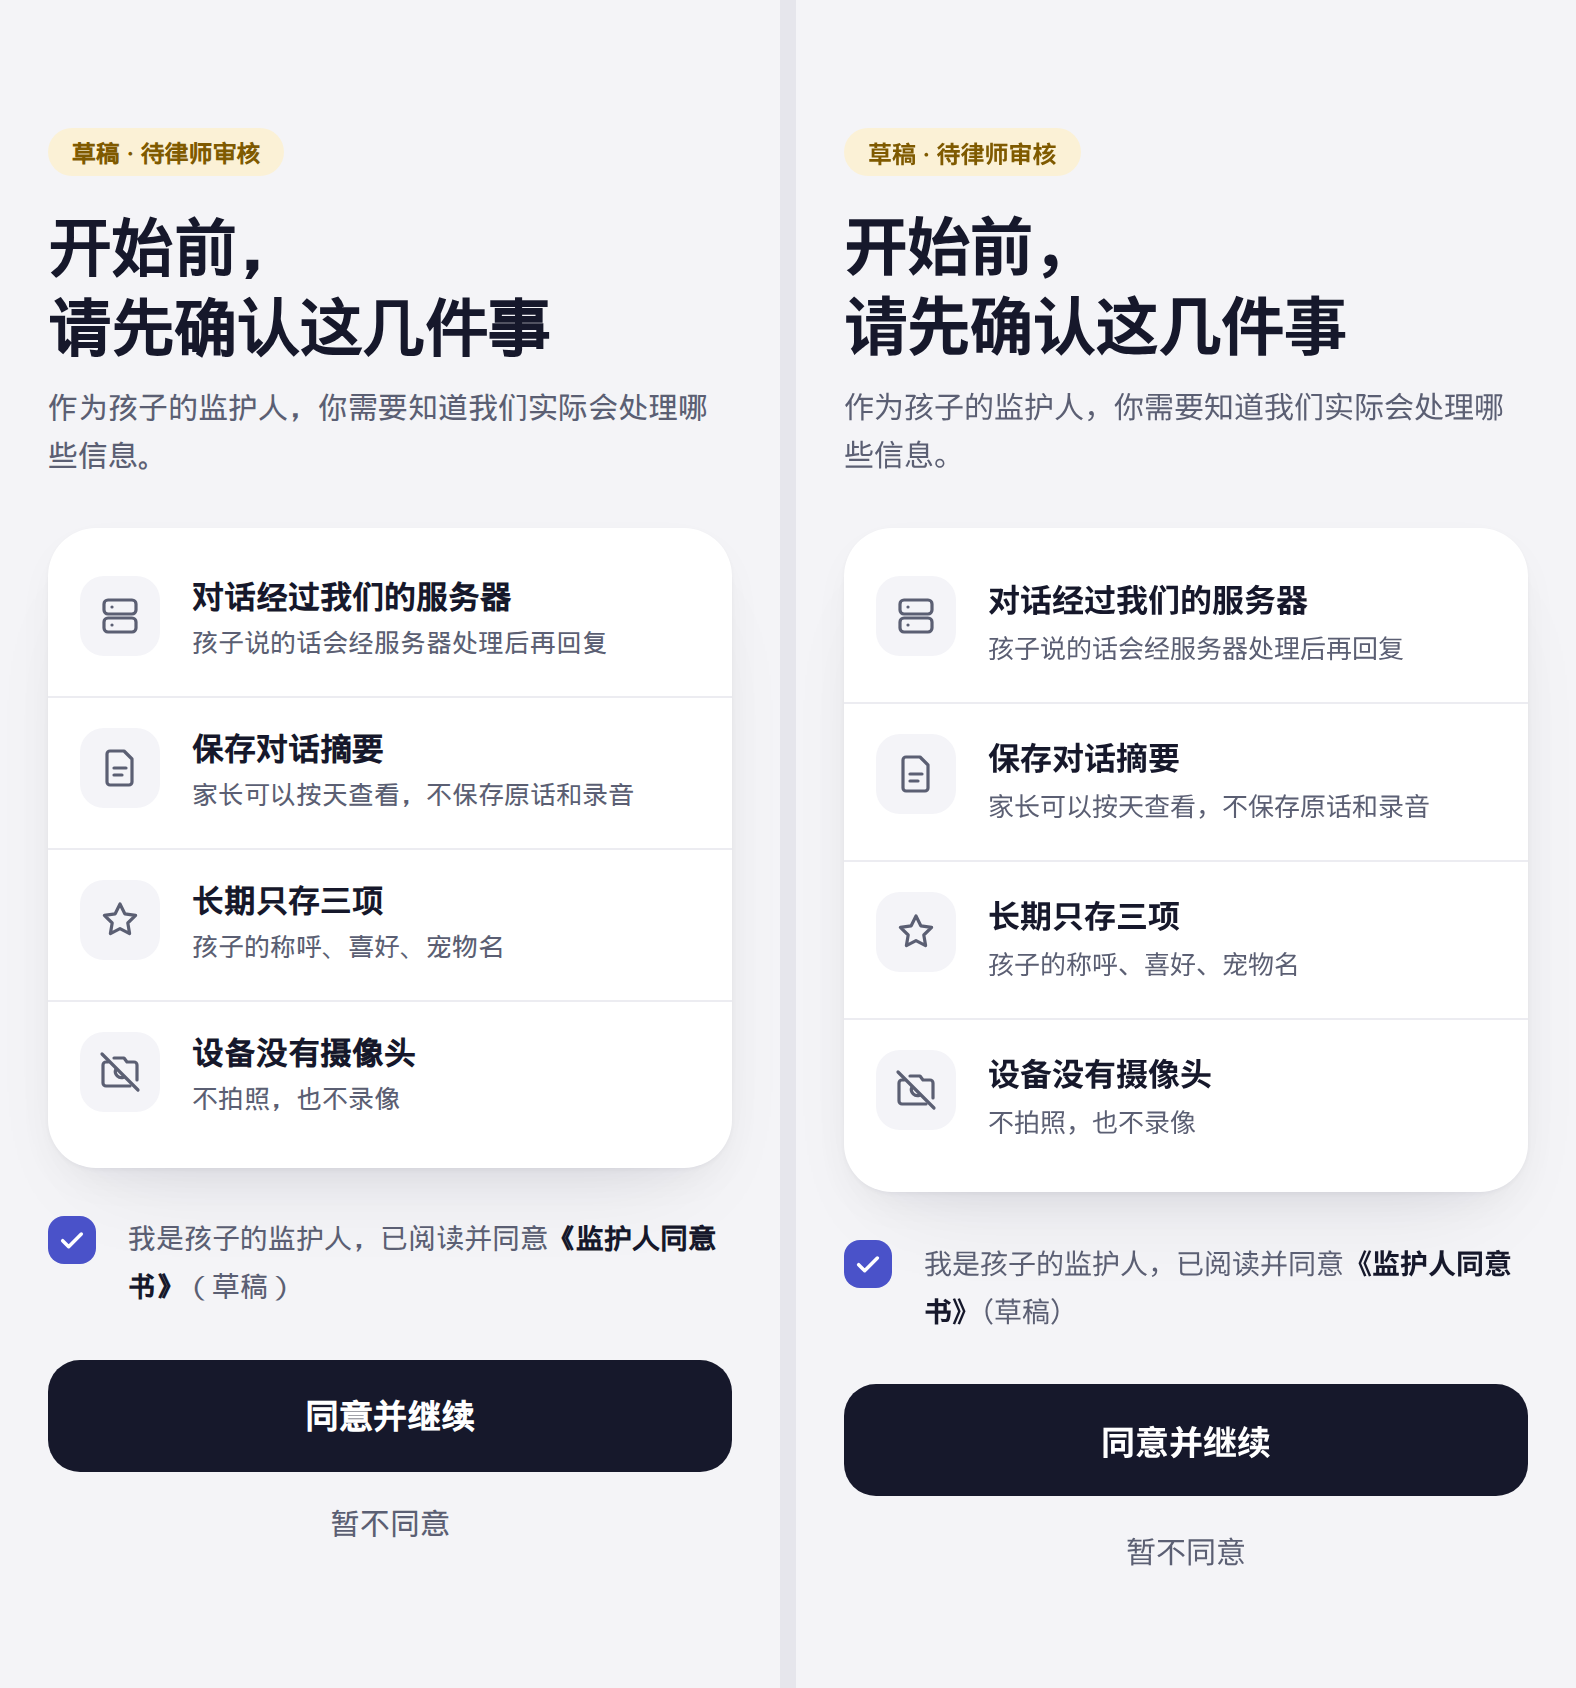
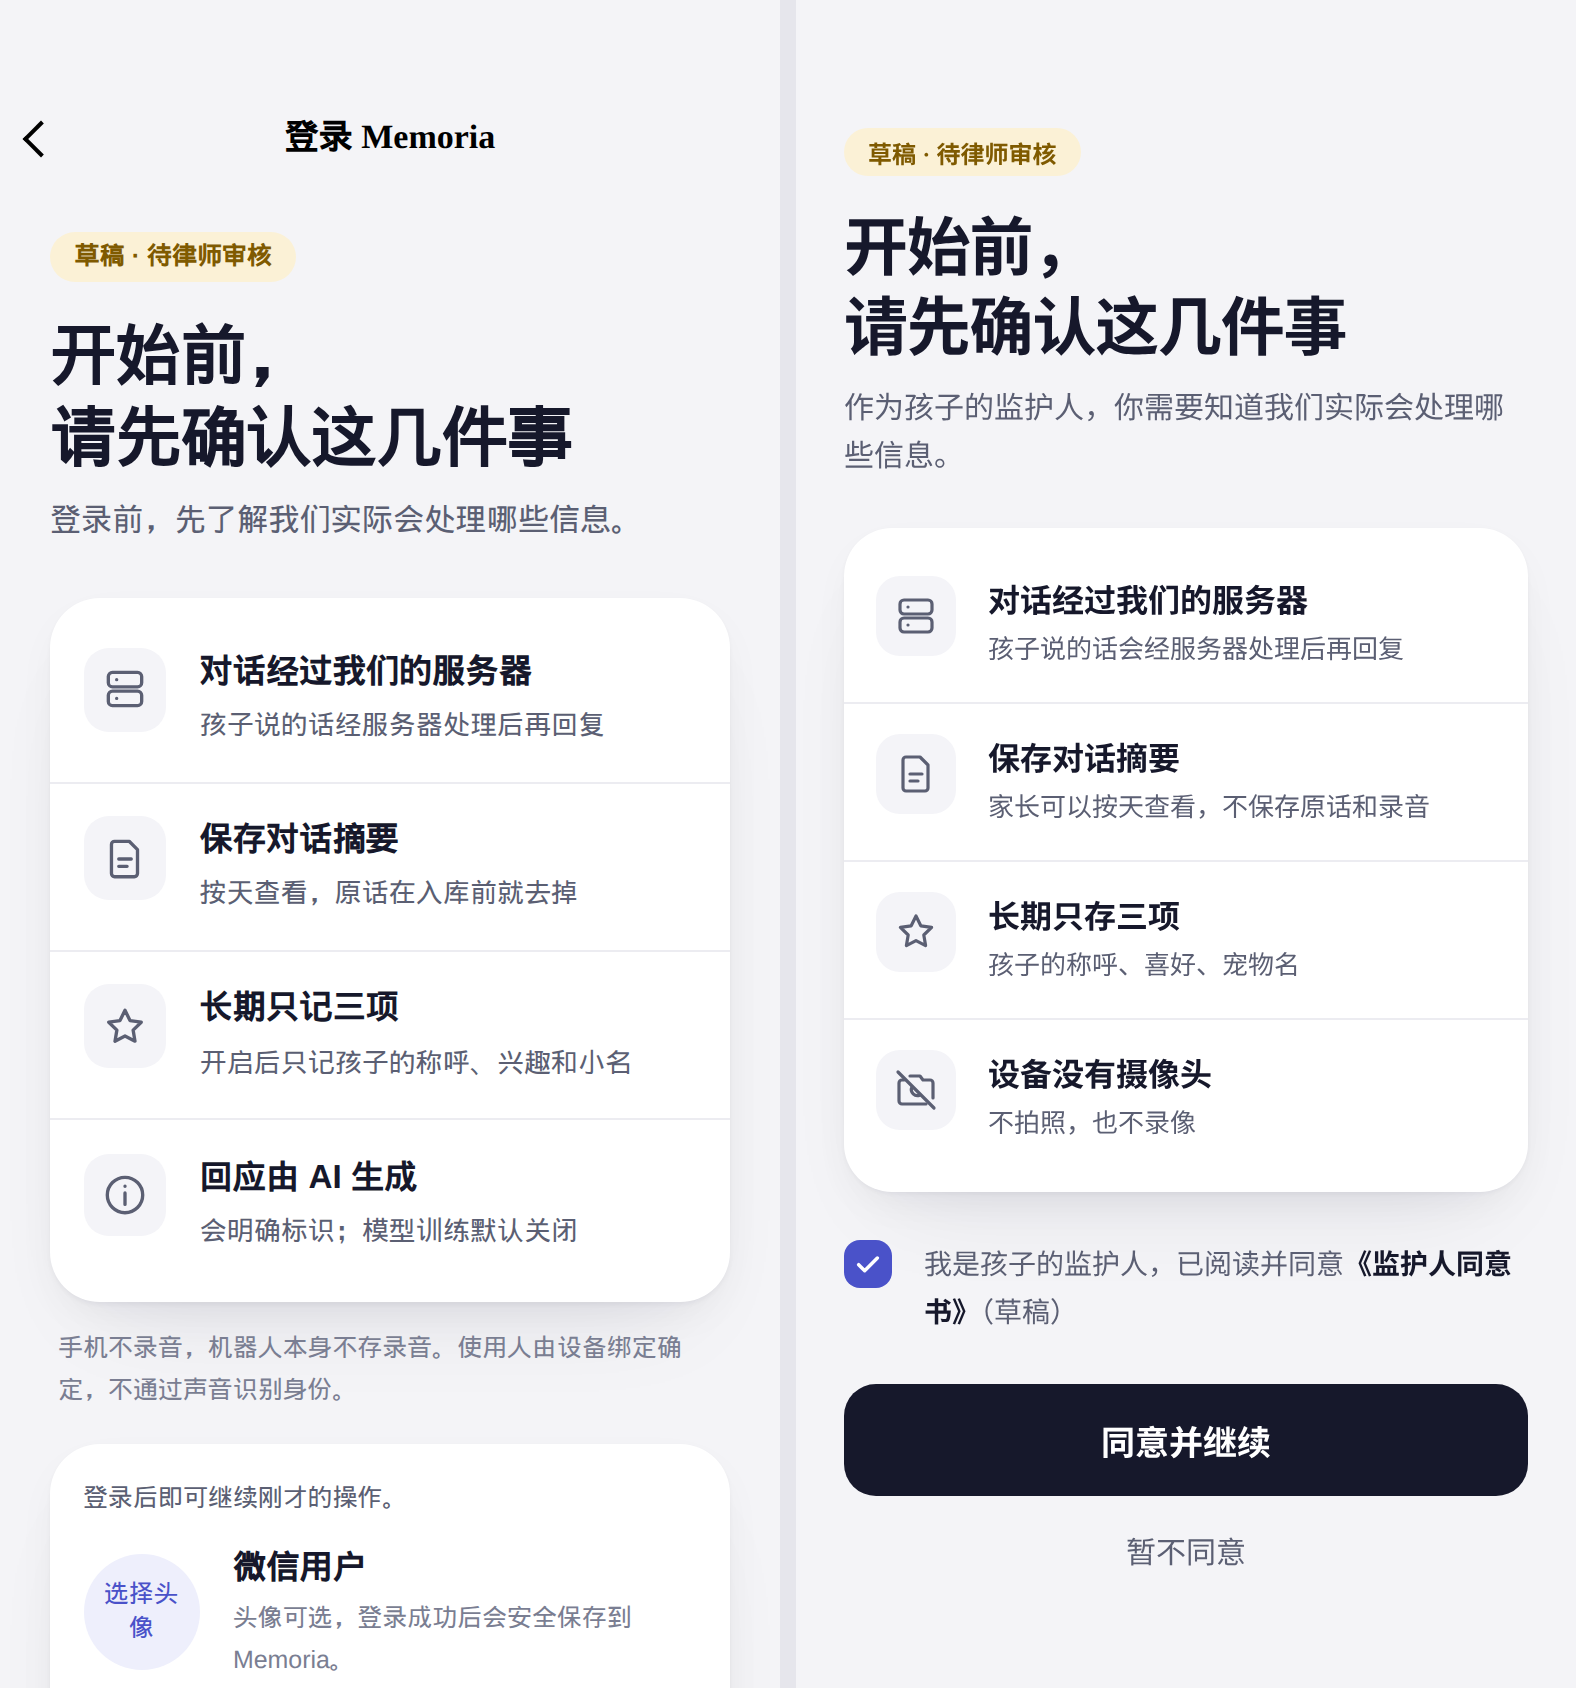
feat(miniprogram): consent-first v4 auth page
Draft chip, two-line large title, four facts the product actually does
(server processing, summaries without original words, three long-term
fields when enabled, AI-generated replies with training off), then the
avatar, nickname, privacy checkbox and phone-number login. Drops the device
hero and the view/delete promises.

diff --git a/apps/miniprogram/tests/auth-layout.test.js b/apps/miniprogram/tests/auth-layout.test.js
@@ -12,15 +12,23 @@ const authStyles = fs.readFileSync(
   "utf8",
 );
 
-test("auth header keeps the brand cue and title on separate lines", () => {
+test("auth header puts the draft chip and the two-line title on separate lines", () => {
   assert.match(
     authTemplate,
-    /<view class="auth-copy">[\s\S]*?<text class="eyebrow auth-copy-line">[\s\S]*?<text class="page-title auth-copy-line">/,
+    /<view class="auth-copy">[\s\S]*?<text class="pill pill-draft auth-chip">草稿 · 待律师审核<\/text>[\s\S]*?<text class="page-title auth-copy-line">开始前，<\/text>\s*<text class="page-title auth-copy-line">请先确认这几件事<\/text>/,
   );
   assert.match(
     authStyles,
     /\.auth-copy-line\s*\{[\s\S]*?display:\s*block\s*;/,
   );
+});
+
+test("auth facts state only what the product does and promise no view or delete", () => {
+  const facts = [...authTemplate.matchAll(/<text class="auth-fact-title">([^<]+)<\/text>/g)].map((m) => m[1]);
+  assert.deepEqual(facts, ["对话经过我们的服务器", "保存对话摘要", "长期只记三项", "回应由 AI 生成"]);
+  assert.match(authTemplate, /称呼、兴趣和小名/);
+  assert.doesNotMatch(authTemplate, /摄像头|随时查看|删除可证明|device-screen/);
+  assert.doesNotMatch(authStyles, /#[0-9a-fA-F]{3,8}\b|rgba\(/);
 });
 
 test("auth header has no unselected mascot placeholder or redundant subtitle", () => {

diff --git a/apps/miniprogram/scripts/v4-parity/scenarios.js b/apps/miniprogram/scripts/v4-parity/scenarios.js
@@ -7,6 +7,7 @@ const fx = require("../mp-harness/fixtures");
 
 const PARITY = [
   { slug: "01-login", design: "01-login.png", page: "pages/home/index", harness: { api: fx.baseApi(fx.GUEST_API), now: fx.NOW } },
+  { slug: "02-consent", design: "02-consent.png", page: "pages/auth/index", harness: { api: fx.baseApi(fx.GUEST_API), now: fx.NOW } },
   { slug: "03-home", design: "03-home.png", page: "pages/home/index", harness: { api: fx.baseApi(), now: fx.NOW } },
   {
     slug: "04-summary",
@@ -17,6 +18,7 @@ const PARITY = [
   },
   { slug: "06-usage", design: "06-usage.png", page: "pages/device/index", harness: { api: fx.baseApi(), now: fx.NOW } },
   { slug: "05-attention", design: "05-attention.png", page: "pages/memory/index", harness: { api: fx.baseApi(), now: fx.NOW } },
+  { slug: "10-profile", design: "10-profile.png", page: "pages/profile/index", harness: { api: fx.baseApi(), now: fx.NOW } },
   { slug: "08-roles", design: "08-roles.png", page: "pages/companion/index", harness: { api: fx.baseApi(), now: fx.NOW } },
   {
     slug: "09-memory",
